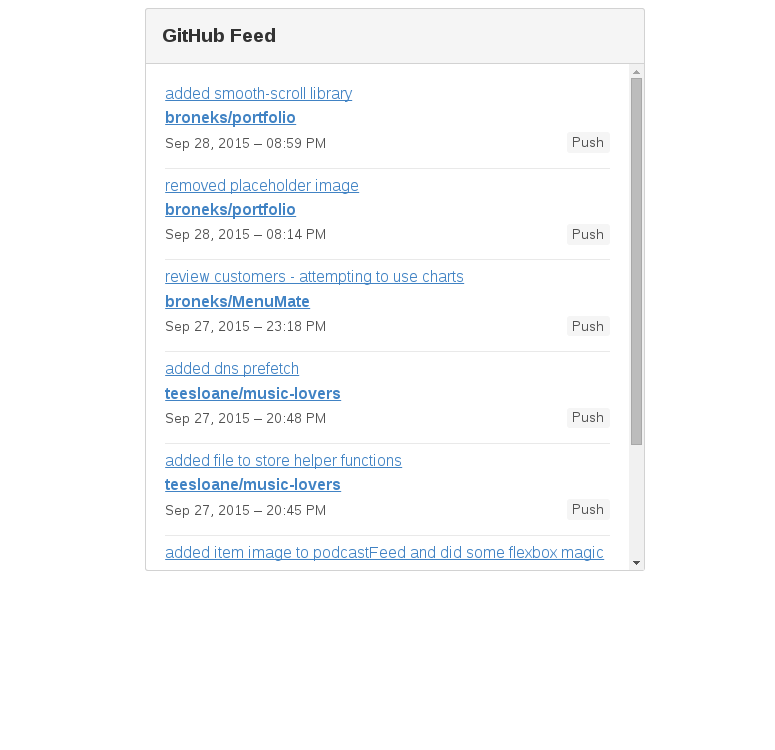
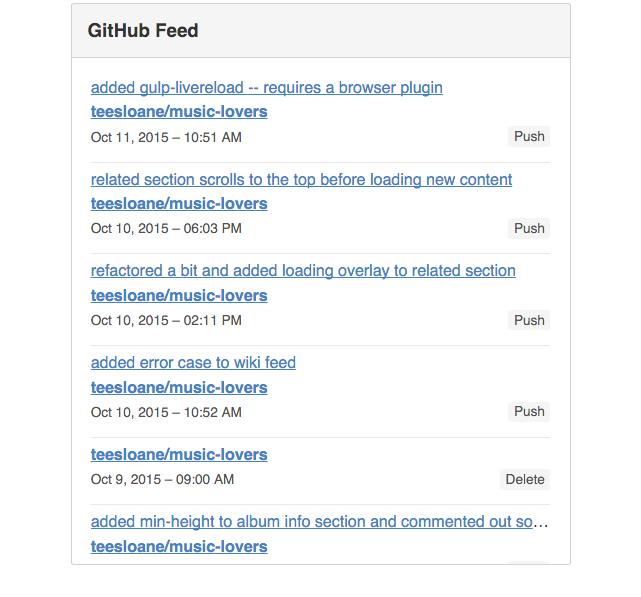
fixed time format and replaced screenshot

diff --git a/gitFeed.min.js b/gitFeed.min.js
@@ -1,2 +1,2 @@
 /*! gitFeed.js (Github Activity Feed Display) | Copyright 2014-2015 Bronek Szulc | https://github.com/broneks/gitFeed.js */
-var gitFeed=function(e){"use strict";var t,r,a=function(e,t){var r;for(r in t)e.hasOwnProperty(r)||(e[r]=t[r])},n=function(r){var a,n,o,i;return t.sessionStorage&&(a=sessionStorage.getItem("gitfeed_store"))?void r(JSON.parse(a)):(n="https://api.github.com/users/"+t.username+"/events/public",o="gitfeed_cb_"+Math.round(1e5*Math.random()),i=document.createElement("script"),i.src=n+(n.indexOf("?")>=0?"&":"?")+"callback="+o,document.body.appendChild(i),void(e[o]=function(a){if(delete e[o],document.body.removeChild(i),a.data.hasOwnProperty("message"))throw new Error(a.data.message);t.sessionStorage&&sessionStorage.setItem("gitfeed_store",JSON.stringify(a.data)),r(a.data)}))},o=function(e,r,a){var n,o,i,s,c,u,l,d;o="gitfeed-item-section",s="gitfeed-label",c="gitfeed-value",n=document.createElement("div"),n.className=r.itemClass+" "+o,t.hideLabels||(u=document.createTextNode(r.label),i=document.createElement("span"),i.className=s,i.appendChild(u),n.appendChild(i)),"link"===a?(r.url="https://github.com"+r.url.split("/repos")[1].replace(/\/commits\//,"/commit/"),l=document.createElement("a"),l.href=r.url,l.setAttribute("target","_blank")):l=document.createElement("span"),d=document.createTextNode(r.content),l.className=c,l.appendChild(d),n.appendChild(l),e.appendChild(n)},i=function(){var e={"long":"January February March April May June July August September October November December".split(" "),"short":"Jan Feb Mar Apr May Jun Jul Aug Sep Oct Nov Dec".split(" ")},r=function(e){if(t.timeFormat&&"hide"===t.timeFormat.toLowerCase())return"";var r=(e.hours<10?"0":"")+e.hours,a=(e.minutes<10?"0":"")+e.minutes,n="";return t.timeFormat&&"12"===t.timeFormat&&(r=e.hours>12?e.hours-12:e.hours,r=(e.hours<10?"0":"")+e.hours,n=e.hours>12?" PM":" AM")," "+String.fromCharCode(8211)+" "+r+":"+a+n},a=function(e){return e.month+1+"/"+e.day+"/"+e.year+r(e)},n=function(t){return e.short[t.month]+" "+t.day+", "+t.year+r(t)},o=function(t){return e.long[t.month]+" "+t.day+", "+t.year+r(t)};return function(e){var r,i;switch(i={month:e.getMonth(),day:e.getDate(),year:e.getFullYear(),hours:e.getHours(),minutes:e.getMinutes()},t.dateFormat.toLowerCase()){case"hide":r="";break;case"short":r=a(i);break;case"medium":r=n(i);break;case"long":default:r=o(i)}return r}}(),s=function(e){var a,n,s,c,u,l;for(c=document.createElement("ul"),n=e.length,s=!t.results||t.results>n?n:t.results,a=0;s>a;a++)u=document.createElement("li"),u.className="gitfeed-item",l={},l.current=e[a],l.type=l.current.type.replace("Event",""),t.hideWatched&&"watch"===l.type.toLowerCase()?n-1>=s&&(s+=1):(l.date=i(new Date(l.current.created_at)),l.current.payload.commits&&o(u,{itemClass:"gitfeed-commit",label:"commit:",url:l.current.payload.commits[0].url,content:l.current.payload.commits[0].message},"link"),l.current.repo&&o(u,{itemClass:"gitfeed-repo",label:"repo:",url:l.current.repo.url,content:l.current.repo.name},"link"),o(u,{itemClass:"gitfeed-action",label:"action:",content:l.type}),l.date&&o(u,{itemClass:"gitfeed-date",label:"date:",content:l.date}),c.appendChild(u));r.forEach(function(e){e.appendChild(c)})},c=function(e){var o,i,c;if(t=e||{},o={targetClass:"gitfeed",dateFormat:"long",hideLabels:!1,hideWatched:!1,sessionStorage:!0},!t.hasOwnProperty("username"))throw new Error("gitFeed.js : please initialize the plugin with a valid Github username.");a(t,o),i=document.querySelectorAll("."+t.targetClass),r=Array.prototype.slice.call(i);try{n(s)}catch(u){for(c=0;c<r.length;c++)r[c].parentNode.removeChild(r[c]);throw new Error("gitFeed.js : an unexpected error occurred: "+u)}};return c}(window);
+var gitFeed=function(e){"use strict";var t,r,a=function(e,t){var r;for(r in t)e.hasOwnProperty(r)||(e[r]=t[r])},n=function(r){var a,n,o,i;return t.sessionStorage&&(a=sessionStorage.getItem("gitfeed_store"))?void r(JSON.parse(a)):(n="https://api.github.com/users/"+t.username+"/events/public",o="gitfeed_cb_"+Math.round(1e5*Math.random()),i=document.createElement("script"),i.src=n+(n.indexOf("?")>=0?"&":"?")+"callback="+o,document.body.appendChild(i),void(e[o]=function(a){if(delete e[o],document.body.removeChild(i),a.data.hasOwnProperty("message"))throw new Error(a.data.message);t.sessionStorage&&sessionStorage.setItem("gitfeed_store",JSON.stringify(a.data)),r(a.data)}))},o=function(e,r,a){var n,o,i,s,c,l,u,d;o="gitfeed-item-section",s="gitfeed-label",c="gitfeed-value",n=document.createElement("div"),n.className=r.itemClass+" "+o,t.hideLabels||(l=document.createTextNode(r.label),i=document.createElement("span"),i.className=s,i.appendChild(l),n.appendChild(i)),"link"===a?(r.url="https://github.com"+r.url.split("/repos")[1].replace(/\/commits\//,"/commit/"),u=document.createElement("a"),u.href=r.url,u.setAttribute("target","_blank")):u=document.createElement("span"),d=document.createTextNode(r.content),u.className=c,u.appendChild(d),n.appendChild(u),e.appendChild(n)},i=function(){var e={"long":"January February March April May June July August September October November December".split(" "),"short":"Jan Feb Mar Apr May Jun Jul Aug Sep Oct Nov Dec".split(" ")},r=function(e){if(t.timeFormat&&"hide"===t.timeFormat.toLowerCase())return"";var r=e.hours,a=e.minutes,n="";return t.timeFormat&&"12"===t.timeFormat&&(r=e.hours>12?e.hours-12:e.hours,n=e.hours>12?" PM":" AM")," "+String.fromCharCode(8211)+" "+(10>r?"0":"")+r+":"+(10>a?"0":"")+a+n},a=function(e){return e.month+1+"/"+e.day+"/"+e.year+r(e)},n=function(t){return e.short[t.month]+" "+t.day+", "+t.year+r(t)},o=function(t){return e.long[t.month]+" "+t.day+", "+t.year+r(t)};return function(e){var r,i;switch(i={month:e.getMonth(),day:e.getDate(),year:e.getFullYear(),hours:e.getHours(),minutes:e.getMinutes()},t.dateFormat.toLowerCase()){case"hide":r="";break;case"short":r=a(i);break;case"medium":r=n(i);break;case"long":default:r=o(i)}return r}}(),s=function(e){var a,n,s,c,l,u;for(c=document.createElement("ul"),n=e.length,s=!t.results||t.results>n?n:t.results,a=0;s>a;a++)l=document.createElement("li"),l.className="gitfeed-item",u={},u.current=e[a],u.type=u.current.type.replace("Event",""),t.hideWatched&&"watch"===u.type.toLowerCase()?n-1>=s&&(s+=1):(u.date=i(new Date(u.current.created_at)),u.current.payload.commits&&o(l,{itemClass:"gitfeed-commit",label:"commit:",url:u.current.payload.commits[0].url,content:u.current.payload.commits[0].message},"link"),u.current.repo&&o(l,{itemClass:"gitfeed-repo",label:"repo:",url:u.current.repo.url,content:u.current.repo.name},"link"),o(l,{itemClass:"gitfeed-action",label:"action:",content:u.type}),u.date&&o(l,{itemClass:"gitfeed-date",label:"date:",content:u.date}),c.appendChild(l));r.forEach(function(e){e.appendChild(c)})},c=function(e){var o,i,c;if(t=e||{},o={targetClass:"gitfeed",dateFormat:"long",hideLabels:!1,hideWatched:!1,sessionStorage:!0},!t.hasOwnProperty("username"))throw new Error("gitFeed.js : please initialize the plugin with a valid Github username.");a(t,o),i=document.querySelectorAll("."+t.targetClass),r=Array.prototype.slice.call(i);try{n(s)}catch(l){for(c=0;c<r.length;c++)r[c].parentNode.removeChild(r[c]);throw new Error("gitFeed.js : an unexpected error occurred: "+l)}};return c}(window);

diff --git a/gitFeed.js b/gitFeed.js
@@ -36,7 +36,7 @@ var gitFeed = (function(window) {
     var dataStore, url, callbackName, script;
 
     if (settings.sessionStorage) {
-      
+
       dataStore = sessionStorage.getItem( 'gitfeed_store' );
 
       if ( dataStore ) {
@@ -140,17 +140,16 @@ var gitFeed = (function(window) {
         return '';
       }
 
-      var hours   = (t.hours   < 10 ? '0' : '') + t.hours;
-      var minutes = (t.minutes < 10 ? '0' : '') + t.minutes;
+      var hours   = t.hours;
+      var minutes = t.minutes;
       var marker  = '';
 
       if ( settings.timeFormat && settings.timeFormat === '12' ) {
-        hours  = (t.hours > 12) ? t.hours - 12 : t.hours;
-        hours  = (t.hours < 10  ? '0' : '') + t.hours;
-        marker = (t.hours > 12) ? ' PM': ' AM';
+        hours  = (t.hours > 12 ? t.hours - 12 : t.hours);
+        marker = (t.hours > 12 ? ' PM': ' AM');
       }
 
-      return ' ' + String.fromCharCode( 8211 ) + ' ' + hours + ':' + minutes + marker;
+      return ' ' + String.fromCharCode( 8211 ) + ' ' + (hours < 10 ? '0' : '') + hours + ':' + (minutes < 10 ? '0' : '') + minutes + marker;
     };
 
 
